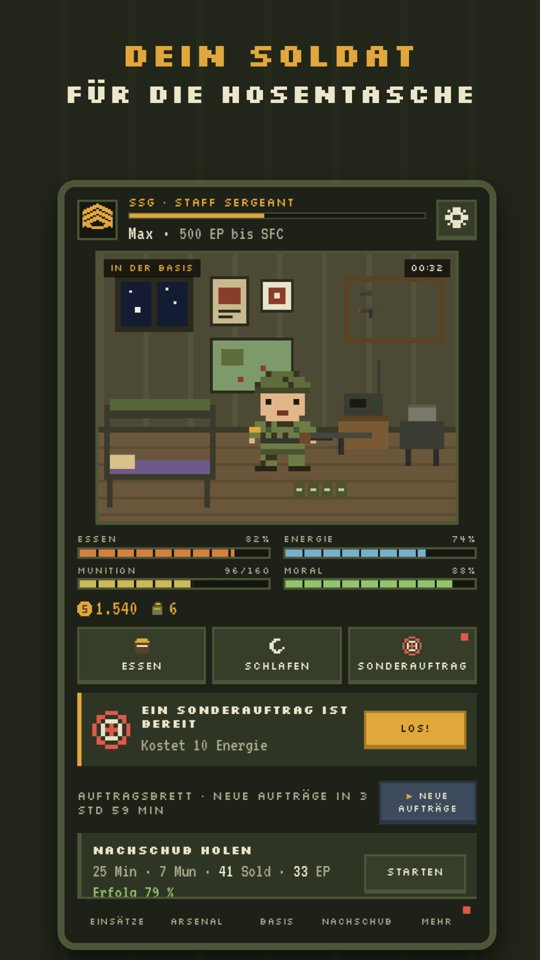
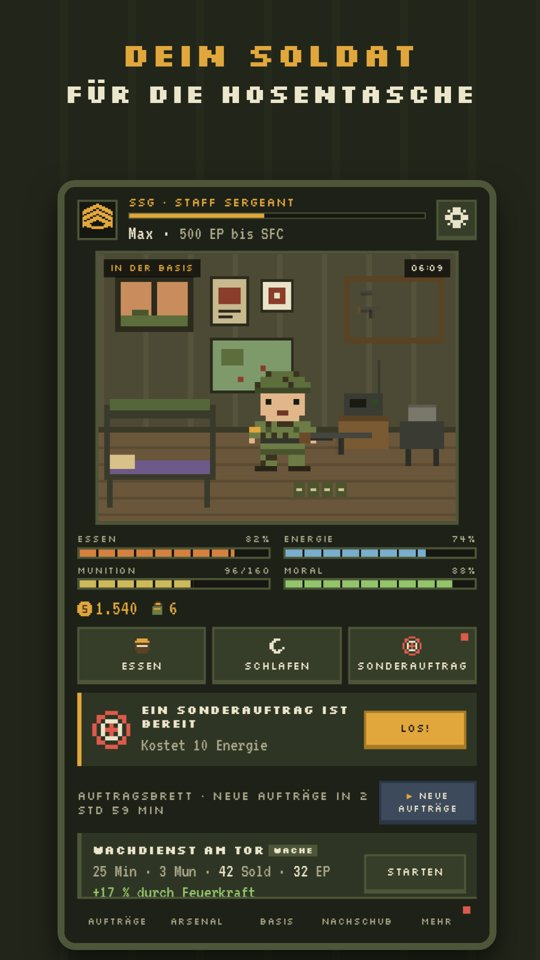
My Pocket Soldier: neue Aufträge auf der Infoseite
Claude-Session: https://claude.ai/code/session_018vUbWKqky3ipTVX6iqYhHF

Changed region(s): [[0.1778, 0.875, 0.5926, 0.9688], [0.2074, 0.2812, 0.3556, 0.3438]]

diff --git a/mypocketsoldier/index.html b/mypocketsoldier/index.html
@@ -4,7 +4,7 @@
 <meta charset="UTF-8">
 <meta name="viewport" content="width=device-width, initial-scale=1.0">
 <title>My Pocket Soldier – Pixel-Soldat zum Großziehen</title>
-<meta name="description" content="My Pocket Soldier: Dein kleiner Pixel-Soldat für die Hosentasche. Füttern, schlafen lassen, in Einsätze schicken, befördern – von Private bis General und Prestige ohne Ende.">
+<meta name="description" content="My Pocket Soldier: Dein kleiner Pixel-Soldat für die Hosentasche. Füttern, schlafen lassen, zum Dienst schicken, befördern – von Private bis General und Prestige ohne Ende.">
 <link rel="icon" href="img/icon.png">
 <style>
   :root{--bg:#1e2117;--panel:#2a2f20;--line:#4d5639;--ink:#ece6cc;--dim:#aaa78c;--brass:#e2a73c}
@@ -46,14 +46,14 @@
   <div class="hero"><img src="img/feature.jpg" alt="My Pocket Soldier: kleiner Pixel-Soldat mit Gewehr"></div>
 
   <h1>Dein Soldat für die Hosentasche.</h1>
-  <p class="lead">Wie ein Tamagotchi, nur mit einem kleinen Pixel-Soldaten: Gib ihm zu essen, lass ihn schlafen, schick ihn in Einsätze und rüste ihn mit neuen Waffen aus. Er meldet sich, wenn er Hunger hat, müde ist oder vom Einsatz zurückkommt.</p>
+  <p class="lead">Wie ein Tamagotchi, nur mit einem kleinen Pixel-Soldaten: Gib ihm zu essen, lass ihn schlafen, schick ihn zum Dienst und rüste ihn mit neuen Waffen aus. Er meldet sich, wenn er Hunger hat, müde ist oder vom Einsatz zurückkommt.</p>
   <p class="lead" lang="en">Raise your own pixel soldier – feed him, rest him, send him on missions. In English and German.</p>
   <a class="btn" href="https://play.google.com/store/apps/details?id=io.github.propanfloete7687.mypocketsoldier">Bei Google Play</a>
 
   <h2 id="spiel">Das Spiel</h2>
   <div class="grid">
     <div class="card"><b>Von Private bis General</b><span>22 Dienstgrade der US Army mit echten Abzeichen, danach Prestige ohne Ende.</span></div>
-    <div class="card"><b>Einsätze in Echtzeit</b><span>Von der 10-Minuten-Streife bis zum 12-Stunden-Kommandoeinsatz. Gut versorgt steigt die Chance.</span></div>
+    <div class="card"><b>46 Aufträge in Echtzeit</b><span>Latrinen reinigen, Rekruten ausbilden, Schießtraining, Nachtwache bis zum Kommandoeinsatz. Jeder Auftrag gelingt.</span></div>
     <div class="card"><b>5 Sonderaufträge</b><span>Schießstand, Minenräumung, Funkcode, Granatwurf und Hindernisbahn als Minispiele.</span></div>
     <div class="card"><b>Arsenal und Basis</b><span>10 Waffen mit fünf Ausbaustufen, 12 Tarnmuster und eine Unterkunft zum Ausbauen.</span></div>
   </div>
